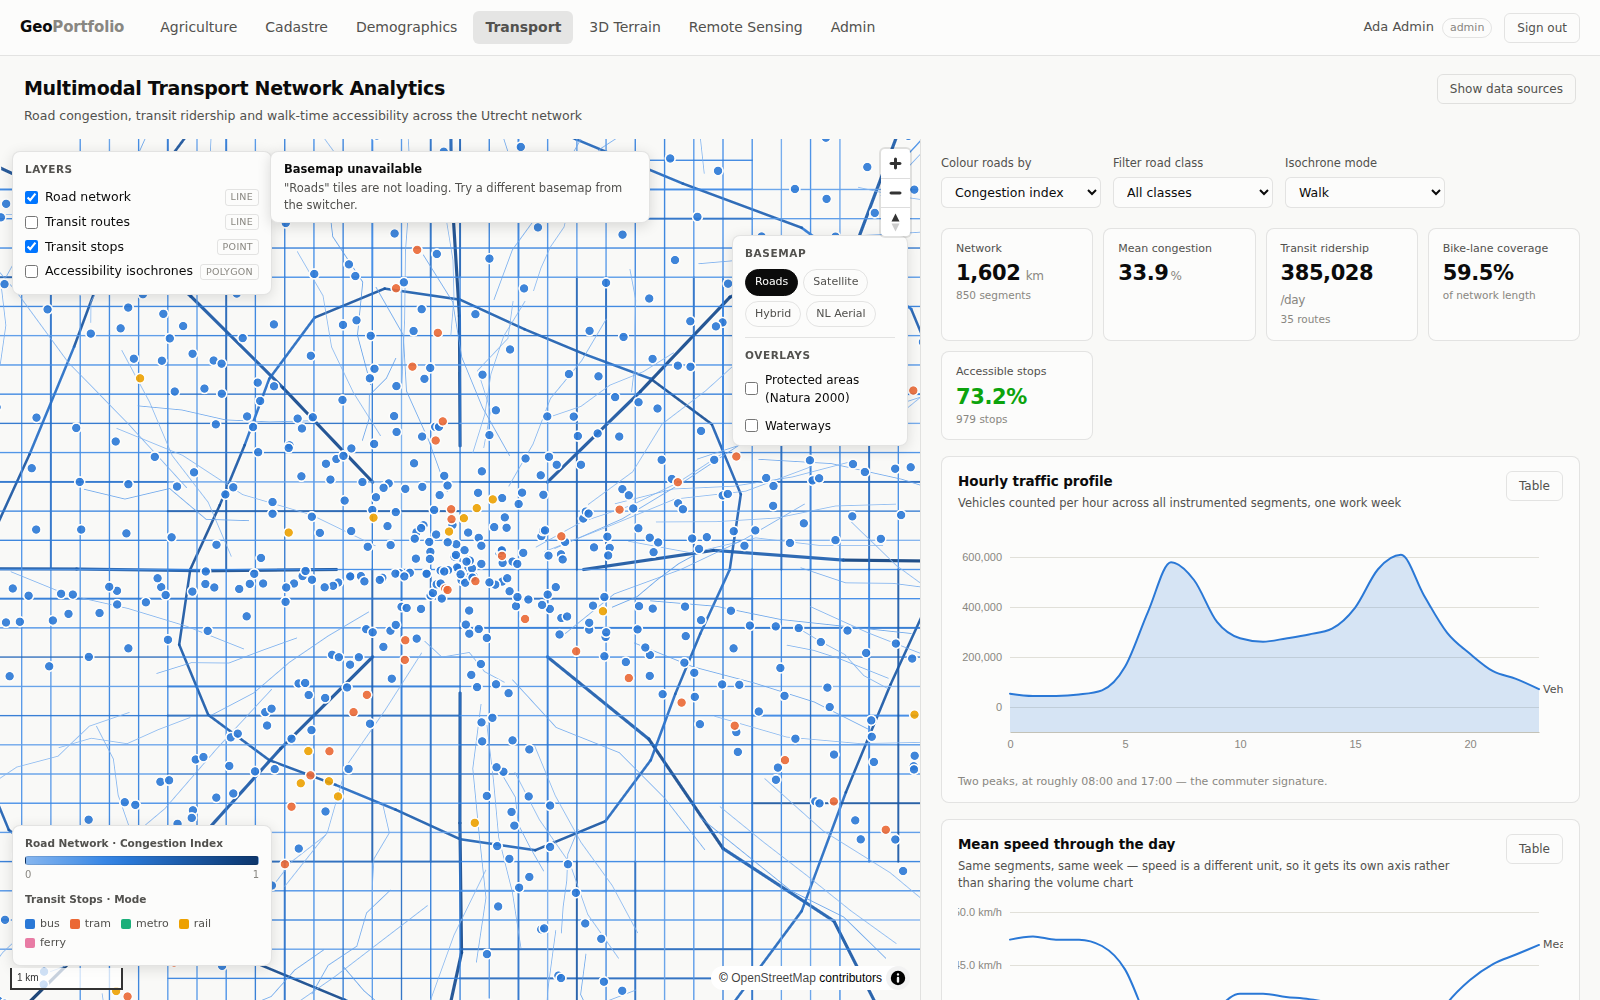
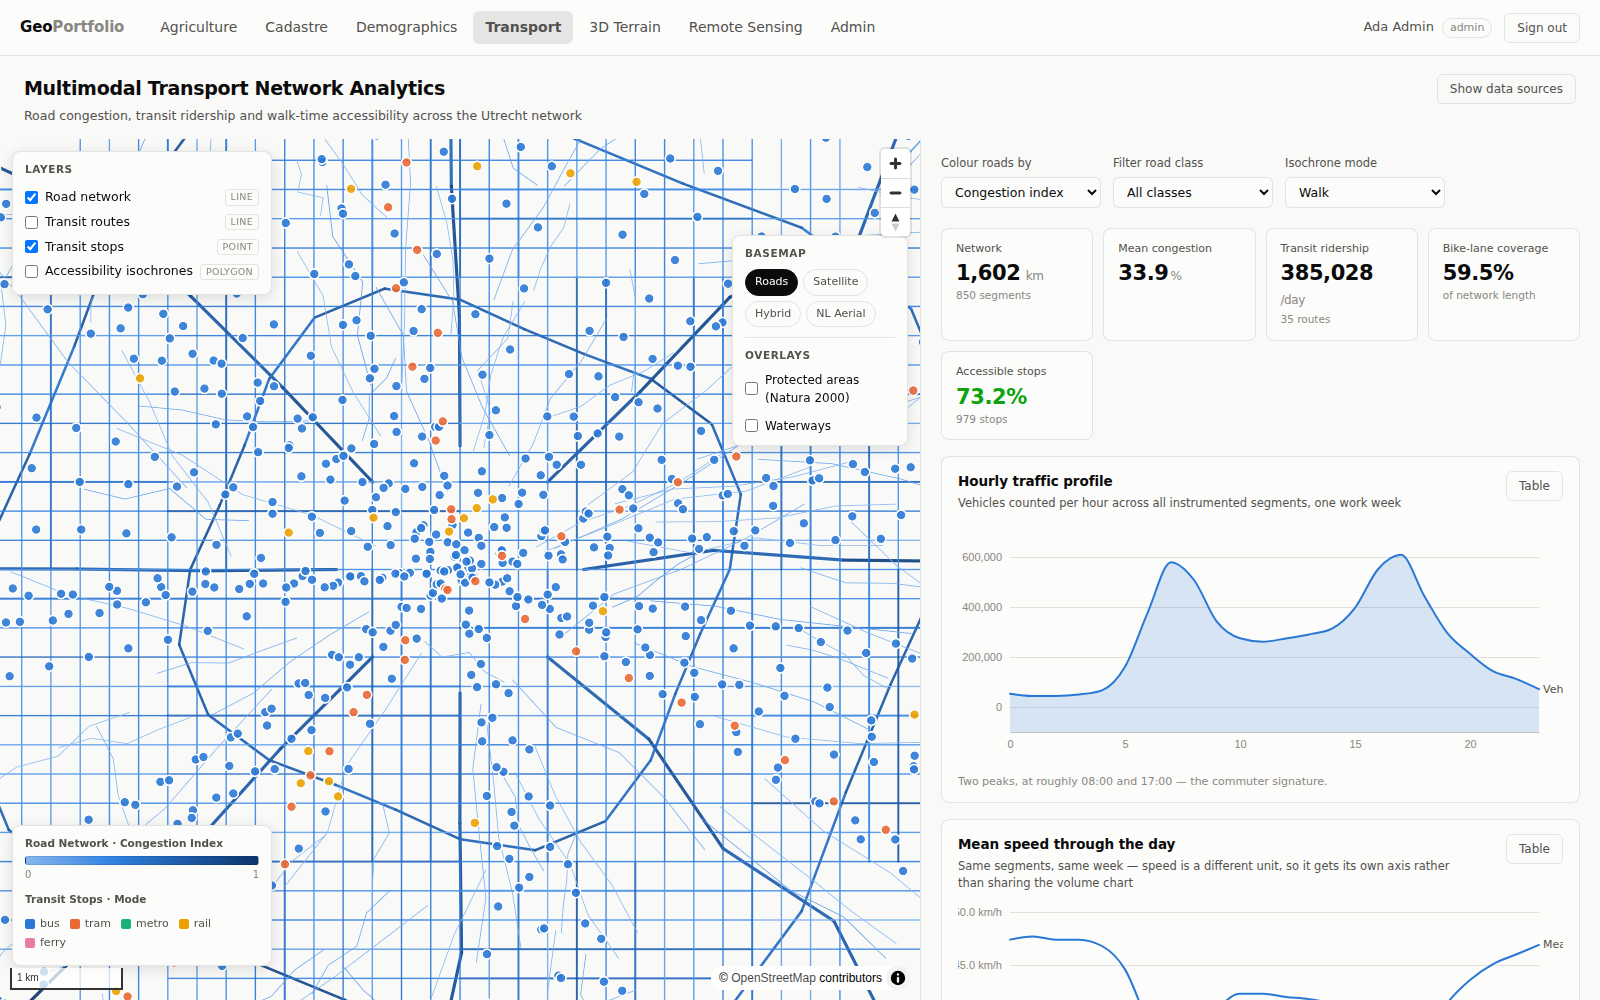
Fix a false "basemap unavailable" warning, and keep it out of screenshots
The notice fired on the sixth tile error regardless of whether any tile had
succeeded. Providers have edges -- PDOK's aerial imagery covers the Netherlands
and nothing past it -- so panning to the coast 404s a screenful of tiles and
declared the basemap unavailable while it was plainly working. It now requires a
burst of failures AND no tile having loaded, and retracts if one arrives late.

Both map notices are also dismissible now, and moved to a narrower box: a
degraded basemap is worth saying once, not worth parking permanently across the
map the reader came to look at.

The screenshot run hides the notices with a stylesheet before capturing. The
tile hosts are third-party, so a capture on a sandboxed or offline runner
correctly reports them unreachable -- but that banner describes the capture
environment, not the app, and documenting it in every screenshot is misleading.
Hidden rather than clicked away because the two notices appear on different
schedules, so a click-then-capture sequence races whichever is slower. The run
still reports every blocked host in its summary.

All seven pages recaptured.

Changed region(s): [[0.1562, 0.155, 0.4062, 0.248]]

diff --git a/frontend/src/components/MapView.tsx b/frontend/src/components/MapView.tsx
@@ -11,6 +11,10 @@ import { buildPaint } from './layerStyles';
 
 import 'maplibre-gl/dist/maplibre-gl.css';
 
+/** Consecutive tile failures, with none succeeding, before the map admits
+ * the basemap is not coming. Six is about one screenful at low zoom. */
+const BASEMAP_ERROR_THRESHOLD = 6;
+
 export interface ActiveLayer {
   info: LayerInfo;
   visible: boolean;
@@ -78,8 +82,11 @@ export function MapView({
   const [mode, setMode] = useState<Mode>(currentMode);
   // Set when the third-party DEM cannot be reached and we drop back to 2D.
   const [terrainFailed, setTerrainFailed] = useState(false);
+  const [terrainNoticeDismissed, setTerrainNoticeDismissed] = useState(false);
   // Set when the selected basemap's tiles repeatedly fail to load.
   const [basemapNotice, setBasemapNotice] = useState<string | null>(null);
+  // Dismissed by the reader; a basemap change clears it again.
+  const [noticeDismissed, setNoticeDismissed] = useState(false);
 
   const { data: basemapList } = useBasemaps();
   const { data: overlayList } = useOverlays();
@@ -206,6 +213,7 @@ export function MapView({
     }
     basemapOwnedRef.current = { sources: [], layers: [] };
     setBasemapNotice(null);
+    setNoticeDismissed(false);
 
     if (!map.getLayer('basemap-background')) {
       map.addLayer(
@@ -254,21 +262,41 @@ export function MapView({
 
     // A raster tile 404/CORS failure just leaves that one tile blank, unlike
     // the terrain DEM (which blanks the whole map) -- so there is no need to
-    // probe first. A note after a real burst of failures is enough to tell
-    // the user their choice did not load rather than leaving them guessing.
+    // probe first. A note after a real burst of failures tells the user their
+    // choice did not load rather than leaving them guessing.
+    //
+    // Errors alone are not enough to make that call, though. Providers have
+    // edges: PDOK's aerial imagery covers the Netherlands and nothing beyond
+    // it, so panning to the coast 404s a screenful of tiles while the basemap
+    // is plainly working. The notice therefore requires a burst of failures
+    // AND no tile having succeeded, and retracts if one arrives late.
     const ownSources = new Set(basemapOwnedRef.current.sources);
+    let loadedCount = 0;
+
     const onError = (event: { error?: Error; sourceId?: string }) => {
       if (!event.sourceId || !ownSources.has(event.sourceId)) return;
       errorCount += 1;
-      if (errorCount === 6) {
+      if (errorCount >= BASEMAP_ERROR_THRESHOLD && loadedCount === 0) {
         setBasemapNotice(
-          `"${activeBasemap.name}" tiles are not loading. Try a different basemap from the switcher.`,
+          `"${activeBasemap.name}" tiles are not loading — the provider may be unreachable ` +
+            `from this network. Try another basemap from the switcher.`,
         );
       }
     };
+
+    const onData = (event: { sourceId?: string; tile?: unknown; sourceDataType?: string }) => {
+      // `tile` is present only when an actual tile arrived, which is what
+      // distinguishes a working provider from a source that merely exists.
+      if (!event.sourceId || !ownSources.has(event.sourceId) || !event.tile) return;
+      loadedCount += 1;
+      setBasemapNotice(null);
+    };
+
     map.on('error', onError);
+    map.on('sourcedata', onData);
     return () => {
       map.off('error', onError);
+      map.off('sourcedata', onData);
     };
   }, [ready, activeBasemap, mode, chrome.page, firstDataLayerId]);
 
@@ -617,8 +645,17 @@ export function MapView({
         />
       )}
 
-      {terrainFailed && (
+      {terrainFailed && !terrainNoticeDismissed && (
         <div className="map-notice" role="status" style={{ background: chrome.surface, borderColor: chrome.border }}>
+          <button
+            type="button"
+            className="map-notice-close"
+            aria-label="Dismiss terrain warning"
+            onClick={() => setTerrainNoticeDismissed(true)}
+            style={{ color: chrome.textMuted }}
+          >
+            ×
+          </button>
           <strong style={{ color: chrome.textPrimary }}>3D terrain unavailable</strong>
           <span style={{ color: chrome.textSecondary }}>
             The elevation tiles could not be reached, so the map is showing the building model on a
@@ -626,8 +663,17 @@ export function MapView({
           </span>
         </div>
       )}
-      {basemapNotice && (
+      {basemapNotice && !noticeDismissed && (
         <div className="map-notice" role="status" style={{ background: chrome.surface, borderColor: chrome.border }}>
+          <button
+            type="button"
+            className="map-notice-close"
+            aria-label="Dismiss basemap warning"
+            onClick={() => setNoticeDismissed(true)}
+            style={{ color: chrome.textMuted }}
+          >
+            ×
+          </button>
           <strong style={{ color: chrome.textPrimary }}>Basemap unavailable</strong>
           <span style={{ color: chrome.textSecondary }}>{basemapNotice}</span>
         </div>

diff --git a/frontend/src/styles/app.css b/frontend/src/styles/app.css
@@ -544,17 +544,32 @@ a { color: inherit; }
 /* Degraded-mode notice, e.g. when the third-party DEM is unreachable. */
 .map-notice {
   position: absolute;
+  /* Top-centre, clear of the layer panel (top-left), the basemap switcher
+     (top-right) and the legend (bottom-left). Kept narrow and dismissible: a
+     degraded basemap is worth saying once, not worth parking permanently
+     across the map the reader came to look at. */
   top: 12px;
   left: 50%;
   transform: translateX(-50%);
   display: grid;
   gap: 2px;
-  max-width: 380px;
-  padding: 9px 13px;
+  max-width: 320px;
+  padding: 8px 26px 8px 12px;
   border: 1px solid;
   border-radius: var(--radius);
   font-size: 11.5px;
   line-height: 1.45;
   box-shadow: 0 3px 14px rgba(0, 0, 0, 0.14);
   z-index: 5;
+}
+.map-notice-close {
+  position: absolute;
+  top: 4px;
+  right: 6px;
+  padding: 0 3px;
+  background: none;
+  border: 0;
+  font-size: 15px;
+  line-height: 1;
+  cursor: pointer;
 }
